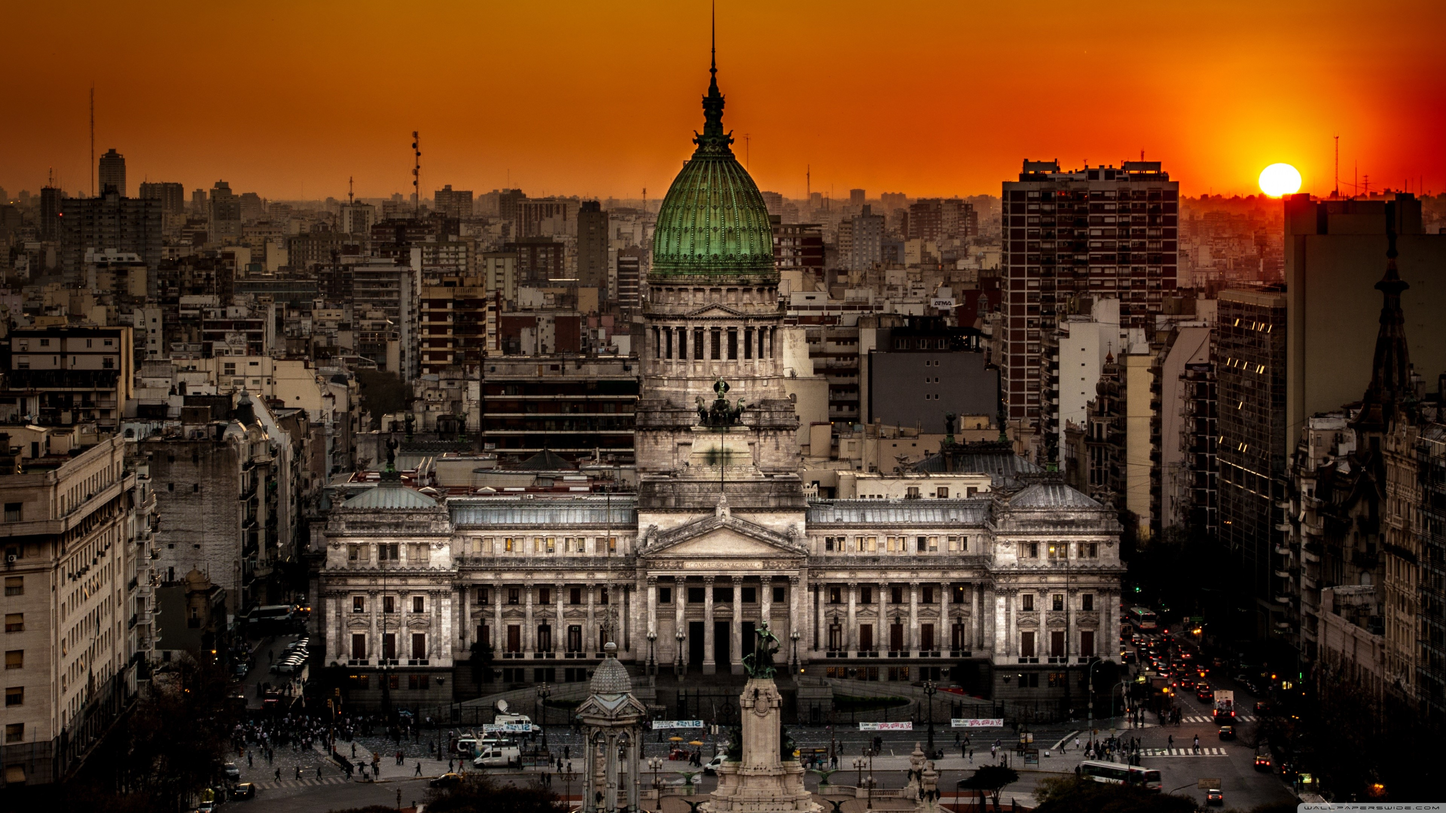
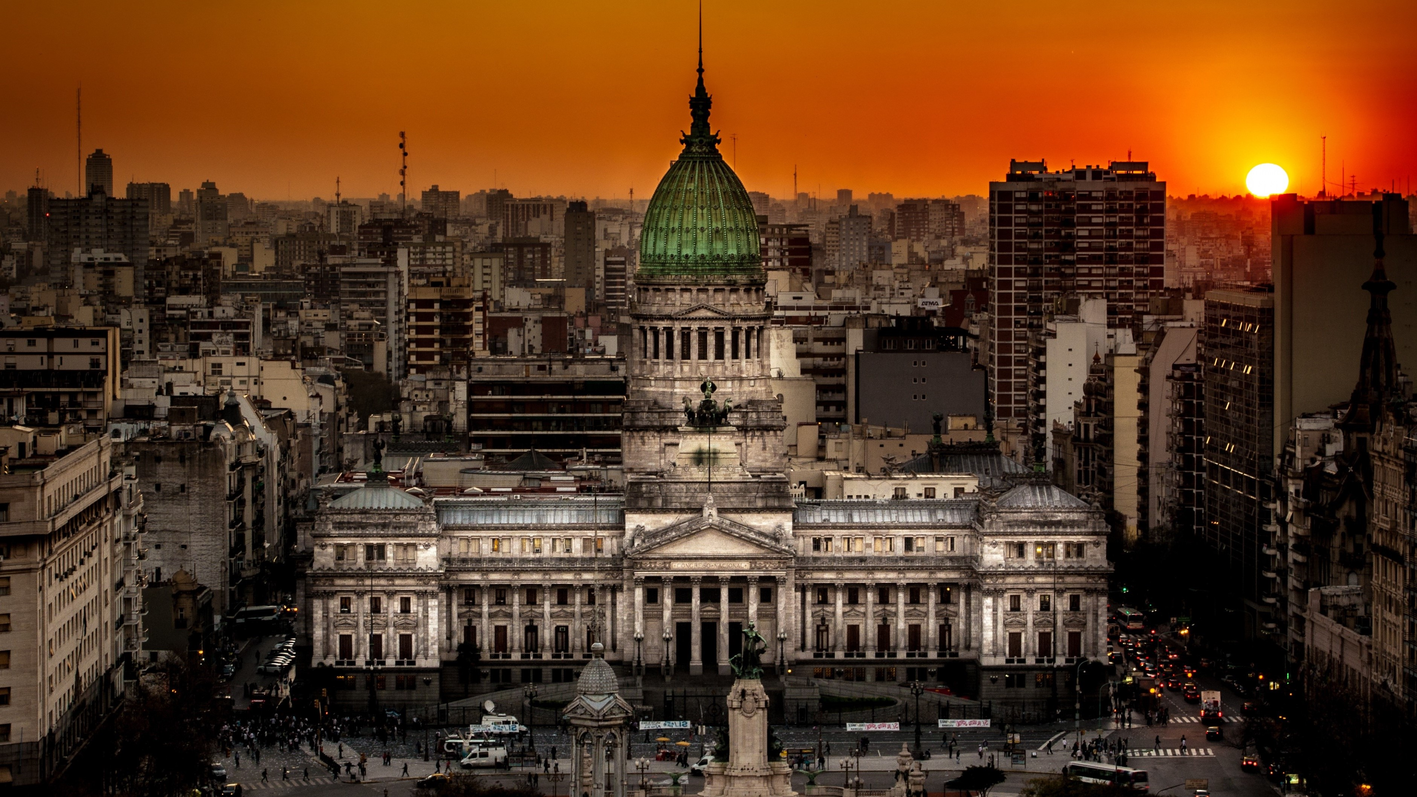
navbar y header lindo jajaja
aplicando grid y clases de bootstrap

diff --git a/index.html b/index.html
@@ -8,110 +8,92 @@
     <link rel="stylesheet" href="style.css" type="text/css">
     </head>
     <body>
-        <header>    
-            <div class="container-fluid">
-                <div class="row align-items-end" style="height: 100px;">
-                    <div class="col-2">
-                        <svg xmlns="http://www.w3.org/2000/svg" width="35" height="35" fill="currentColor" class="bi bi-airplane" viewBox="0 0 35 35"><path d="M6.428 1.151C6.708.591 7.213 0 8 0s1.292.592 1.572 1.151C9.861 1.73 10 2.431 10 3v3.691l5.17 2.585a1.5 1.5 0 0 1 .83 1.342V12a.5.5 0 0 1-.582.493l-5.507-.918-.375 2.253 1.318 1.318A.5.5 0 0 1 10.5 16h-5a.5.5 0 0 1-.354-.854l1.319-1.318-.376-2.253-5.507.918A.5.5 0 0 1 0 12v-1.382a1.5 1.5 0 0 1 .83-1.342L6 6.691V3c0-.568.14-1.271.428-1.849m.894.448C7.111 2.02 7 2.569 7 3v4a.5.5 0 0 1-.276.447l-5.448 2.724a.5.5 0 0 0-.276.447v.792l5.418-.903a.5.5 0 0 1 .575.41l.5 3a.5.5 0 0 1-.14.437L6.708 15h2.586l-.647-.646a.5.5 0 0 1-.14-.436l.5-3a.5.5 0 0 1 .576-.411L15 11.41v-.792a.5.5 0 0 0-.276-.447L9.276 7.447A.5.5 0 0 1 9 7V3c0-.432-.11-.979-.322-1.401C8.458 1.159 8.213 1 8 1s-.458.158-.678.599"/></svg>
+        <header>
+            <div id="carouselContainer" class="container-fluid">
+                <div id="carouselAuto" class="carousel slide position-relative d-flex align-items-start justify-content-center" data-bs-ride="carousel" data-bs-touch="false">
+                    <div class="carousel-indicators">
+                        <button type="button" data-bs-target="#carouselAuto" data-bs-slide-to="0" class="active" aria-current="true" aria-label="Slide 1"></button>
+                        <button type="button" data-bs-target="#carouselAuto" data-bs-slide-to="1" aria-label="Slide 2"></button>
+                        <button type="button" data-bs-target="#carouselAuto" data-bs-slide-to="2" aria-label="Slide 3"></button>
                     </div>
-                    <div class="col-8">
-                        <ul class="nav nav-underline justify-content-center">
-                            <li class="nav-item dropdown">
-                                <button class="btn btn-outline-primary" data-bs-toggle="dropdown" aria-expanded="false">Destinos</button>
-                                <ul class="dropdown-menu dropdown-menu-dark">
-                                    <li><a class="dropdown-item" href="#">Buenos Aires</a></li>
-                                    <li><a class="dropdown-item" href="#">Córdoba</a></li>
-                                    <li><a class="dropdown-item" href="#">Mendoza</a></li>
+                    <div class="carousel-inner w-100">
+                        <div class="carousel-item active" data-bs-interval="2000">
+                            <img src="img/cataratas.jpg" class="img-fluid d-block w-100 opacidad" alt="Cataratas del Iguazú">
+                            <div class="carousel-caption d-none d-md-block">
+                                <h2>Cataratas del Iguazú, Misiones</h2>
+                            </div>
+                        </div>
+                        <div class="carousel-item" data-bs-interval="2000">
+                            <img src="img/congreso.jpg" class="img-fluid d-block w-100 opacidad" alt="Congreso de la Nación">
+                            <div class="carousel-caption d-none d-md-block">
+                                <h2>Congreso de la Nación, Bs As</h2>
+                            </div>
+                        </div>
+                        <div class="carousel-item" data-bs-interval="2000">
+                            <img src="img/salta.jpg" class="img-fluid d-block w-100 opacidad alt="Valles Calchaquíes">
+                            <div class="carousel-caption d-none d-md-block">
+                                <h2>Valle Calchaquíes, Salta</h2>
+                            </div>
+                        </div>
+                    </div>
+                    <nav class="container-fluid position-absolute text-center text-light" id="barraNav">
+                        <div class="row align-items-end">
+                            <div class="col-3 nav-item d-flex align-items-end justify-content-center">
+                                <img src="img/explorArg.png" alt="Logo" width="40" height="40" class="d-inline-block align-top"><h4>ExplorArg</h4>
+                            </div>
+                            <div class="col-6">
+                                <ul class="nav nav-underline justify-content-center">
+                                    <li class="nav-item dropdown">
+                                        <button class="btn btn-outline-light" data-bs-toggle="dropdown" aria-expanded="false">Destinos</button>
+                                        <ul class="dropdown-menu dropdown-menu-dark">
+                                            <li><a class="dropdown-item" href="#">Buenos Aires</a></li>
+                                            <li><a class="dropdown-item" href="#">Córdoba</a></li>
+                                            <li><a class="dropdown-item" href="#">Mendoza</a></li>
+                                        </ul>
+                                    </li>
+                                    <li class="nav-item">
+                                        <a class="nav-link" href="#">Vuelos</a>
+                                    </li>
+                                    <li class="nav-item">
+                                        <a class="nav-link" href="#">Paquetes</a>
+                                    </li>
+                                    <li class="nav-item">
+                                        <a class="nav-link" href="#">Hoteles</a>
+                                    </li>
+                                    <li class="nav-item">
+                                        <a class="nav-link" href="#">Actividades</a>
+                                    </li>
+                                    <li class="nav-item">
+                                        <a class="nav-link" href="#">Autos</a>
+                                    </li>
                                 </ul>
-                            </li>
-                            <li class="nav-item">
-                                <a class="nav-link" href="#">Vuelos</a>
-                            </li>
-                            <li class="nav-item">
-                                <a class="nav-link" href="#">Paquetes</a>
-                            </li>
-                            <li class="nav-item">
-                                <a class="nav-link" href="#">Hoteles</a>
-                            </li>
-                            <li class="nav-item">
-                                <a class="nav-link" href="#">Actividades</a>
-                            </li>
-                            <li class="nav-item">
-                                <a class="nav-link" href="#">Autos</a>
-                            </li>
-                        </ul>
-                    </div>
-                    <div class="col-2">
-                        <ul class="nav nav-underline justify-content-center">
-                            <li class="nav-item">
-                                <a class="nav-link disabled" aria-disabled="true">Log In 
-                                    <svg xmlns="http://www.w3.org/2000/svg" width="20" height="20" fill="currentColor" class="bi bi-person-circle" viewBox="0 0 20 20"><path d="M11 6a3 3 0 1 1-6 0 3 3 0 0 1 6 0"/><path fill-rule="evenodd" d="M0 8a8 8 0 1 1 16 0A8 8 0 0 1 0 8m8-7a7 7 0 0 0-5.468 11.37C3.242 11.226 4.805 10 8 10s4.757 1.225 5.468 2.37A7 7 0 0 0 8 1"/></svg>
-                                </a>
-                            </li>
-                        </ul>
-                        
-                    </div>
-                    
-                </div>
-                <div class="row">
-                    <div class="col search-container">
-                        <h1>Nuestros Destinos</h1>
-                        <label for="ida-vuelta">Ida y vuelta</label>
-                        <input type="radio">
-                        <label for="">Solo ida</label>
-                        <input type="radio" name="" id="">
-                    </div> 
-                    <div class="col search-container">
-                        <form>
-                            <input type="text" id="origen" name="origen" placeholder="Origen">
-                            <input type="text" id="destino" name="destino" placeholder="Destino">
-                            <input type="date" id="fecha" name="fecha">
-                            <button type="submit">Buscar</button>
-                        </form>
-                    </div>
+                            </div>
+                            <div class="col-3">
+                                <ul class="nav nav-pills justify-content-center">
+                                    <li class="nav-item">
+                                        <a class="nav-link">Log In 
+                                            <svg xmlns="http://www.w3.org/2000/svg" width="20" height="20" fill="currentColor" class="bi bi-person-circle" viewBox="0 0 20 20"><path d="M11 6a3 3 0 1 1-6 0 3 3 0 0 1 6 0"/><path fill-rule="evenodd" d="M0 8a8 8 0 1 1 16 0A8 8 0 0 1 0 8m8-7a7 7 0 0 0-5.468 11.37C3.242 11.226 4.805 10 8 10s4.757 1.225 5.468 2.37A7 7 0 0 0 8 1"/></svg>
+                                        </a>
+                                    </li>
+                                </ul>
+                            </div>
+                        </div>     
+                    </nav> 
                 </div>
             </div>
         </header>
         <main>
             <section>
-                <div class="container-fluid">
-                    <div id="carouselAuto" class="carousel slide" data-bs-ride="carousel" data-bs-touch="false">
-                        <div class="carousel-indicators">
-                            <button type="button" data-bs-target="#carouselAuto" data-bs-slide-to="0" class="active" aria-current="true" aria-label="Slide 1"></button>
-                            <button type="button" data-bs-target="#carouselAuto" data-bs-slide-to="1" aria-label="Slide 2"></button>
-                            <button type="button" data-bs-target="#carouselAuto" data-bs-slide-to="2" aria-label="Slide 3"></button>
-                        </div>
-                        <div class="carousel-inner">
-                            <div class="carousel-item active" data-bs-interval="2000">
-                                <img src="img/cataratas.jpg" class="img-fluid d-block w-100" alt="...">
-                                <div class="carousel-caption d-none d-md-block">
-                                    <h5>Cataratas del Iguazú</h5>
-                                </div>
-                            </div>
-                            <div class="carousel-item" data-bs-interval="2000">
-                                <img src="img/congreso.jpg" class="img-fluid d-block w-100" alt="...">
-                                <div class="carousel-caption d-none d-md-block">
-                                    <h5>Congreso de Bs As</h5>
-                                </div>
-                            </div>
-                            <div class="carousel-item" data-bs-interval="2000">
-                                <img src="img/salta.jpg" class="img-fluid d-block w-100" alt="...">
-                                <div class="carousel-caption d-none d-md-block">
-                                    <h5>Salta</h5>
-                                </div>
-                            </div>
-                        </div>
-                        <button class="carousel-control-prev" type="button" data-bs-target="#carouselAuto" data-bs-slide="prev">
-                            <span class="carousel-control-prev-icon" aria-hidden="true"></span>
-                            <span class="visually-hidden">Previous</span>
-                        </button>
-                        <button class="carousel-control-next" type="button" data-bs-target="#carouselAuto" data-bs-slide="next">
-                            <span class="carousel-control-next-icon" aria-hidden="true"></span>
-                            <span class="visually-hidden">Next</span>
-                        </button>
-                    </div>
+                <div class="row" style="background-color: bisque;">
+                    <h1>HOLA</h1>
                 </div>
-            </section>
+                <div class="row" style="background-color: bisque;">
+                    <h1>HOLA</h1>
+                </div>
+                <div class="row" style="background-color: bisque;">
+                    <h1>HOLA</h1>
+                </div>
+            </section>  
         </main>
 
 

diff --git a/style.css b/style.css
@@ -1,14 +1,19 @@
-header{
-    height: 800px;
-    background-color:deepskyblue;
-    margin-bottom: 1%;
+header {
+    position: relative;
+    background-color: #101820;
 }
-
-.container-fluid{
-    margin-bottom: 1%
+.carousel-inner .opacidad {
+    opacity: 0.6;
 }
-.row{
-    background-color:rgb(148, 183, 183);
-    padding: 1%;
-    margin-bottom: 1%;
+.carousel-inner {
+    overflow: hidden;  
+}
+#carouselContainer {
+    background-color: #101820;
+}
+.nav-link, .nav-item{
+    color: white;
+}
+#barraNav{
+    padding: 4%;
 }
